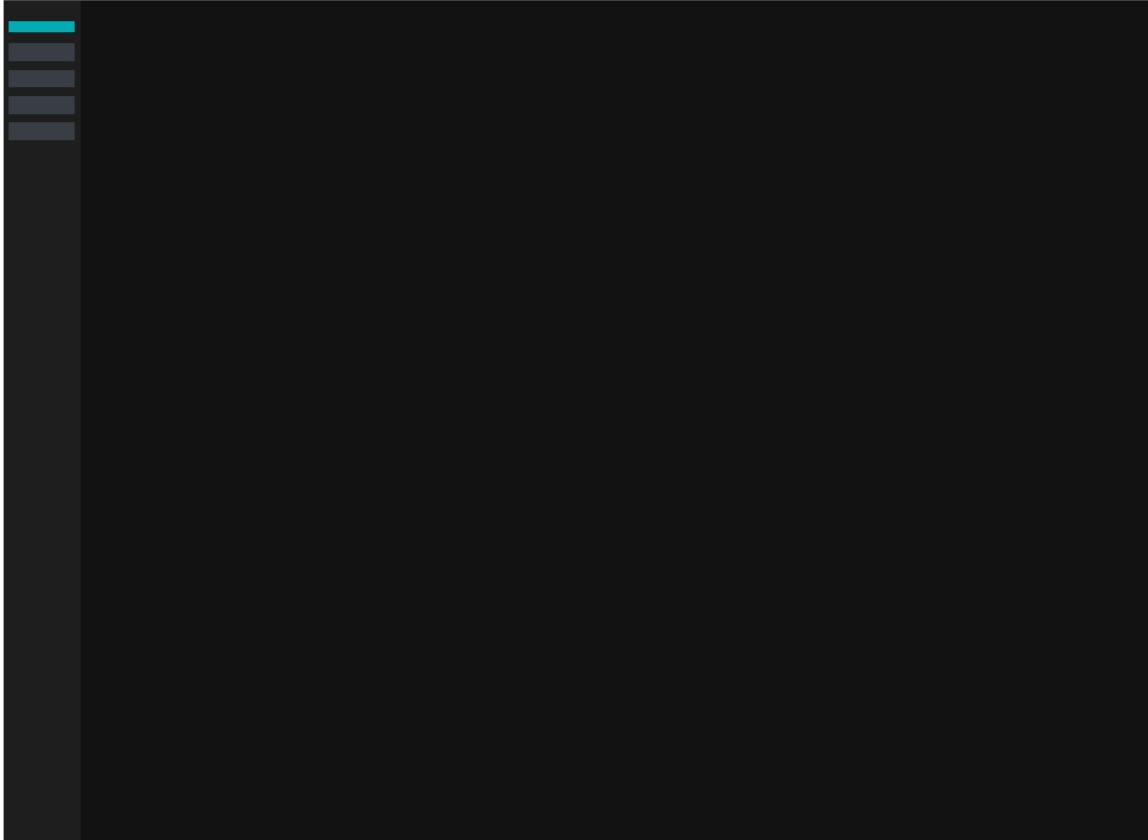
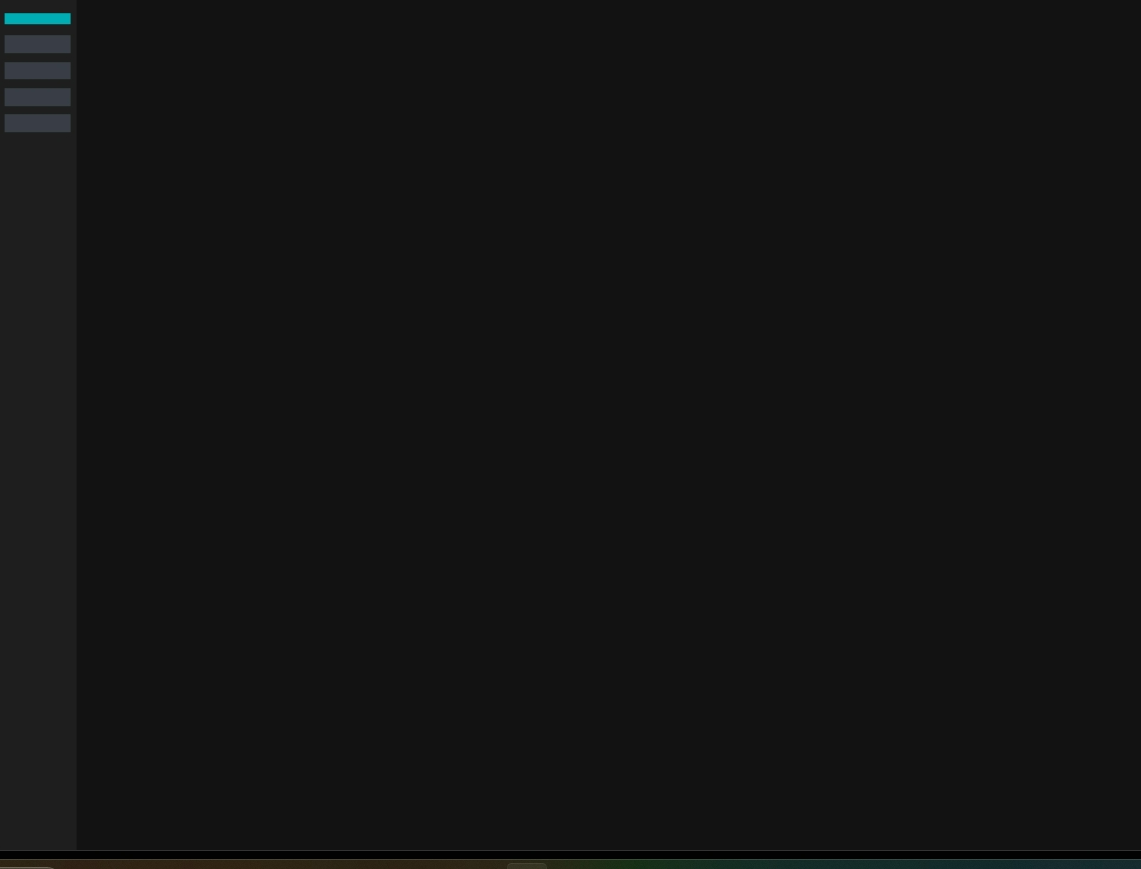
Agent query: Please log in as a dispatcher and check if the dispatcher dashboard loads correctly. Are there any JavaScript errors in the console? Is the map visible, and are the trips being fetched and displayed properly?

Changed region(s): [[0.0, 0.0, 1.0, 1.0]]

diff --git a/static/js/dispatcher.js b/static/js/dispatcher.js
@@ -1,21 +1,49 @@
 document.addEventListener('DOMContentLoaded', function() {
+    console.log('DOM content loaded');
     const statusFilter = document.getElementById('status-filter');
     const dateRangeFilter = document.getElementById('date-range-filter');
     const driverFilter = document.getElementById('driver-filter');
     const passengerFilter = document.getElementById('passenger-filter');
     const filteredTripsList = document.getElementById('filtered-trips-list');
     const tripList = document.getElementById('trip-list');
+    const applyFiltersBtn = document.getElementById('apply-filters-btn');
+    const map = L.map('map').setView([40.7128, -74.0060], 10);
+
+    L.tileLayer('https://{s}.tile.openstreetmap.org/{z}/{x}/{y}.png', {
+        attribution: '© OpenStreetMap contributors'
+    }).addTo(map);
+
+    console.log('Map initialized');
 
     // Add event listeners for filter changes
-    statusFilter.addEventListener('change', fetchFilteredTrips);
-    dateRangeFilter.addEventListener('change', fetchFilteredTrips);
-    driverFilter.addEventListener('change', fetchFilteredTrips);
-    passengerFilter.addEventListener('change', fetchFilteredTrips);
+    statusFilter.addEventListener('change', handleFilterChange);
+    dateRangeFilter.addEventListener('change', handleDateRangeChange);
+    driverFilter.addEventListener('change', handleFilterChange);
+    passengerFilter.addEventListener('change', handleFilterChange);
+    applyFiltersBtn.addEventListener('click', fetchFilteredTrips);
+
+    console.log('Event listeners added');
 
     // Call fetchFilteredTrips when the page loads
     fetchFilteredTrips();
 
+    function handleFilterChange() {
+        console.log('Filter changed');
+        fetchFilteredTrips();
+    }
+
+    function handleDateRangeChange() {
+        const customDateRange = document.getElementById('custom-date-range');
+        if (dateRangeFilter.value === 'custom') {
+            customDateRange.style.display = 'block';
+        } else {
+            customDateRange.style.display = 'none';
+        }
+        fetchFilteredTrips();
+    }
+
     function fetchFilteredTrips() {
+        console.log('Fetching filtered trips');
         const status = statusFilter.value;
         const dateRange = dateRangeFilter.value;
         const driver = driverFilter.value;
@@ -46,6 +74,7 @@ document.addEventListener('DOMContentLoaded', function() {
     }
 
     function updateFilteredTripsList(trips) {
+        console.log('Updating filtered trips list');
         filteredTripsList.innerHTML = '';
         trips.forEach(trip => {
             const tripElement = document.createElement('div');
@@ -62,6 +91,7 @@ document.addEventListener('DOMContentLoaded', function() {
     }
 
     function updateAllTripsList(trips) {
+        console.log('Updating all trips list');
         tripList.innerHTML = '';
         trips.forEach(trip => {
             const row = document.createElement('tr');
@@ -98,14 +128,66 @@ document.addEventListener('DOMContentLoaded', function() {
     }
 
     function updateMapMarkers(trips) {
-        // Implement map marker update logic here
+        console.log('Updating map markers');
+        map.eachLayer(layer => {
+            if (layer instanceof L.Marker) {
+                map.removeLayer(layer);
+            }
+        });
+
+        trips.forEach(trip => {
+            if (trip.pickup_lat && trip.pickup_lon) {
+                L.marker([trip.pickup_lat, trip.pickup_lon])
+                    .addTo(map)
+                    .bindPopup(`<b>${trip.patient_name}</b><br>Pickup: ${trip.pickup_location}`);
+            }
+            if (trip.dropoff_lat && trip.dropoff_lon) {
+                L.marker([trip.dropoff_lat, trip.dropoff_lon])
+                    .addTo(map)
+                    .bindPopup(`<b>${trip.patient_name}</b><br>Dropoff: ${trip.dropoff_location}`);
+            }
+        });
     }
 
     function showErrorMessage(message) {
-        // Implement error message display
         console.error(message);
         alert(message);
     }
 
-    // Add any additional functions needed for edit, delete, etc.
+    // Add functions for editing and deleting trips
+    function editTrip(tripId) {
+        console.log('Editing trip:', tripId);
+        // Implement edit trip functionality
+    }
+
+    function deleteTrip(tripId) {
+        console.log('Deleting trip:', tripId);
+        // Implement delete trip functionality
+    }
+
+    // Initialize sidebar functionality
+    const sidebar = document.getElementById('sidebar');
+    const toggleSidebarBtn = document.getElementById('toggleSidebarBtn');
+    const addTripBtn = document.getElementById('add-trip-btn');
+    const addDriverBtn = document.getElementById('add-driver-btn');
+    const addPassengerBtn = document.getElementById('add-passenger-btn');
+
+    toggleSidebarBtn.addEventListener('click', function() {
+        sidebar.classList.toggle('expanded');
+    });
+
+    addTripBtn.addEventListener('click', function() {
+        console.log('Add trip button clicked');
+        // Implement add trip functionality
+    });
+
+    addDriverBtn.addEventListener('click', function() {
+        console.log('Add driver button clicked');
+        // Implement add driver functionality
+    });
+
+    addPassengerBtn.addEventListener('click', function() {
+        console.log('Add passenger button clicked');
+        // Implement add passenger functionality
+    });
 });

diff --git a/templates/dispatcher_dashboard.html b/templates/dispatcher_dashboard.html
@@ -33,7 +33,90 @@
             </a>
         </nav>
     </div>
-    <!-- Rest of the content remains unchanged -->
+    <div class="main-content">
+        <div class="dashboard-header">
+            <h1>Dispatcher Dashboard</h1>
+            <div class="user-info">
+                Welcome, {{ current_user.username }}
+                <a href="{{ url_for('logout') }}" class="logout-btn">Logout</a>
+            </div>
+        </div>
+        <div class="filter-bar">
+            <div class="filter-group">
+                <label for="status-filter">Status:</label>
+                <select id="status-filter" class="filter-select">
+                    <option value="All">All</option>
+                    <option value="Unassigned">Unassigned</option>
+                    <option value="Assigned">Assigned</option>
+                    <option value="In Progress">In Progress</option>
+                    <option value="Completed">Completed</option>
+                </select>
+            </div>
+            <div class="filter-group">
+                <label for="date-range-filter">Date Range:</label>
+                <select id="date-range-filter" class="filter-select">
+                    <option value="all">All</option>
+                    <option value="today">Today</option>
+                    <option value="week">This Week</option>
+                    <option value="month">This Month</option>
+                    <option value="custom">Custom</option>
+                </select>
+            </div>
+            <div class="filter-group" id="custom-date-range" style="display: none;">
+                <label for="start-date">Start Date:</label>
+                <input type="date" id="start-date" class="filter-input">
+                <label for="end-date">End Date:</label>
+                <input type="date" id="end-date" class="filter-input">
+            </div>
+            <div class="filter-group">
+                <label for="driver-filter">Driver:</label>
+                <select id="driver-filter" class="filter-select">
+                    <option value="all">All Drivers</option>
+                    <!-- Add driver options dynamically using JavaScript -->
+                </select>
+            </div>
+            <div class="filter-group">
+                <label for="passenger-filter">Passenger:</label>
+                <select id="passenger-filter" class="filter-select">
+                    <option value="all">All Passengers</option>
+                    <!-- Add passenger options dynamically using JavaScript -->
+                </select>
+            </div>
+            <button id="apply-filters-btn" class="filter-btn">Apply Filters</button>
+        </div>
+        <div class="dashboard-grid">
+            <div class="grid-item">
+                <h2>Map</h2>
+                <div id="map" class="map-container"></div>
+            </div>
+            <div class="grid-item">
+                <h2>Filtered Trips</h2>
+                <div id="filtered-trips-list" class="filtered-trips-list"></div>
+            </div>
+        </div>
+        <div class="grid-item">
+            <h2>All Trips</h2>
+            <div class="table-responsive">
+                <table class="trips-table">
+                    <thead>
+                        <tr>
+                            <th>ID</th>
+                            <th>Patient</th>
+                            <th>Pickup</th>
+                            <th>Dropoff</th>
+                            <th>Status</th>
+                            <th>Driver</th>
+                            <th>Pickup Time</th>
+                            <th>Actions</th>
+                        </tr>
+                    </thead>
+                    <tbody id="trip-list">
+                        <!-- Trip rows will be populated dynamically using JavaScript -->
+                    </tbody>
+                </table>
+            </div>
+        </div>
+    </div>
 </div>
 
 {% include "popup_forms.html" %}
